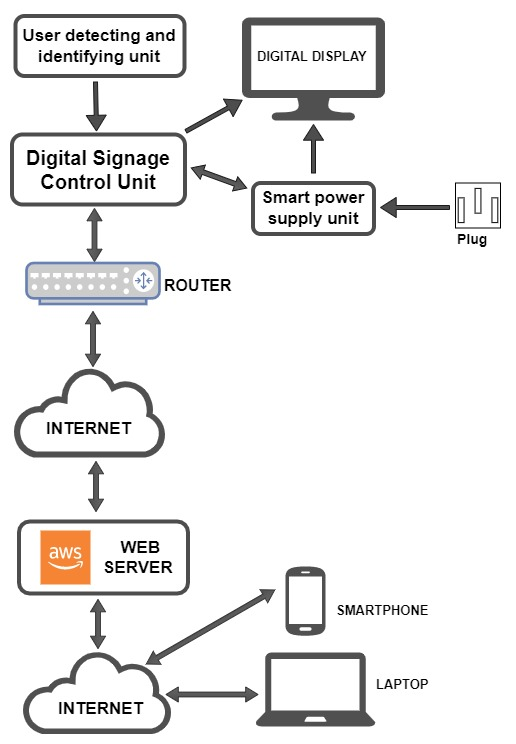
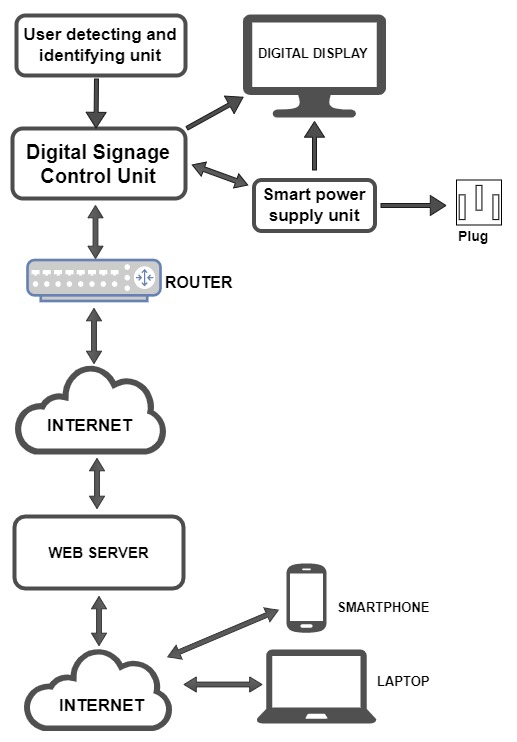
block diagram updated

diff --git a/docs/index.html b/docs/index.html
@@ -84,7 +84,7 @@
                             <ul style="line-height: 200%;">
                                 <li>The digital signage control unit consists of raspberry pi 3 which will act as the heart of the system and mainly django as the web application framework for the front end as well as for the backend.</li>
                                 <li>The Digital display is connected to raspberry pi using HDMI and the user detecting and Identifying unit is attached to the digital display. This user detecting and Identifying unit mainly consists of Raspberry PI camera module and distance sensor module.</li>
-                                <li>AWS is used as the web server as it provides a number of economical and flexible features.</li>
+                                <li>Firebase or AWS will be selected as the web server after further reseaching  them as they both provide a number of economical and flexible features. The most reliable and our desired features providing server will be choosed.</li>
                                 <li>Flutter is used as the mobile app framework where dart is used as the programming language since the same code base can be used to develop both android and ios applications.</li>
                                 <li>As an additional improvement, a smart power supply unit which can control the digital screen on/off through the web application will be implemented.</li>
                             </ul>    
